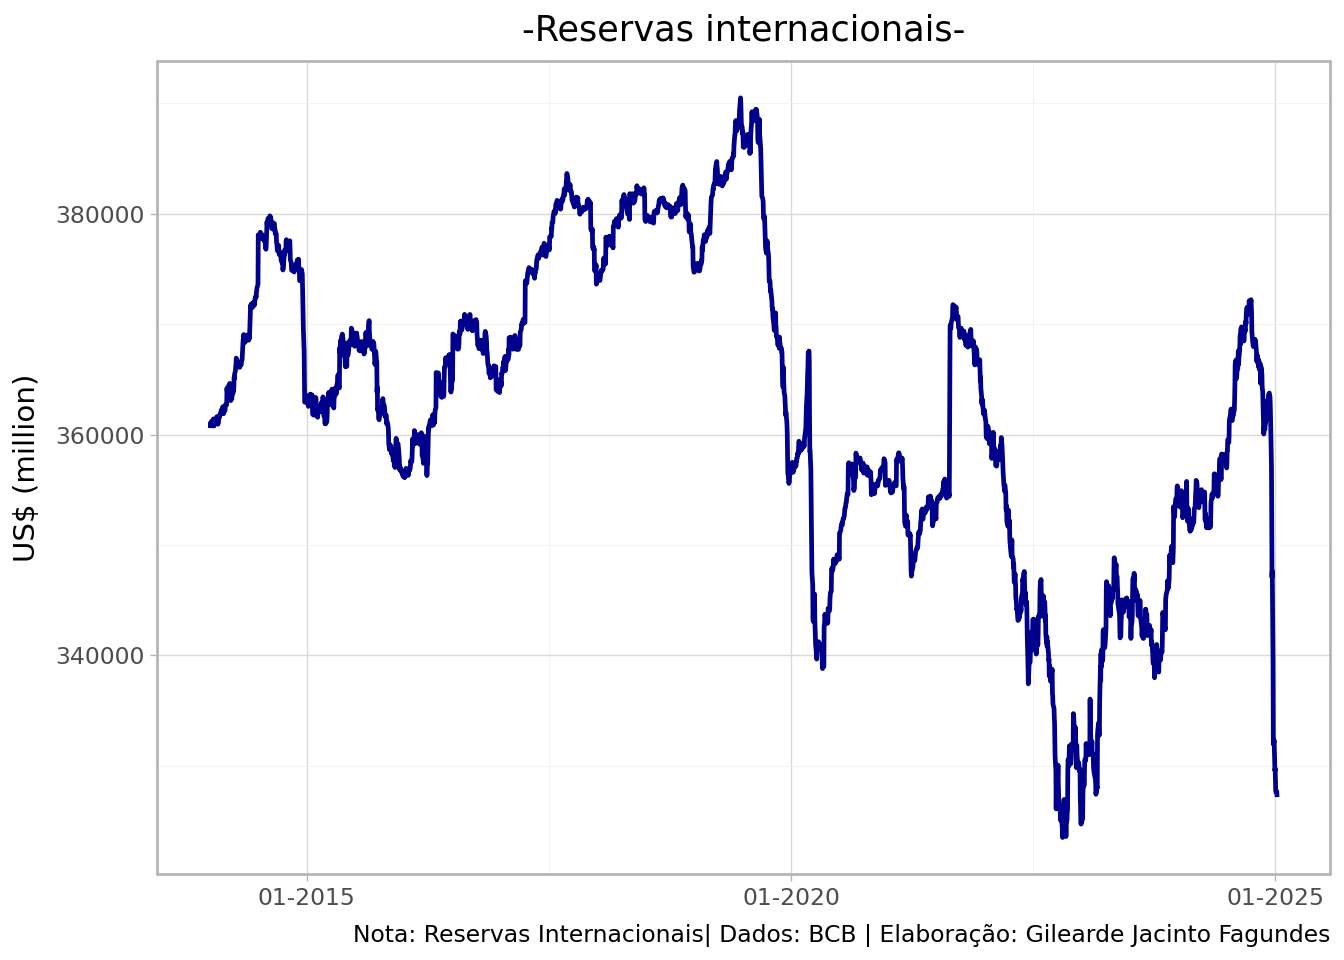
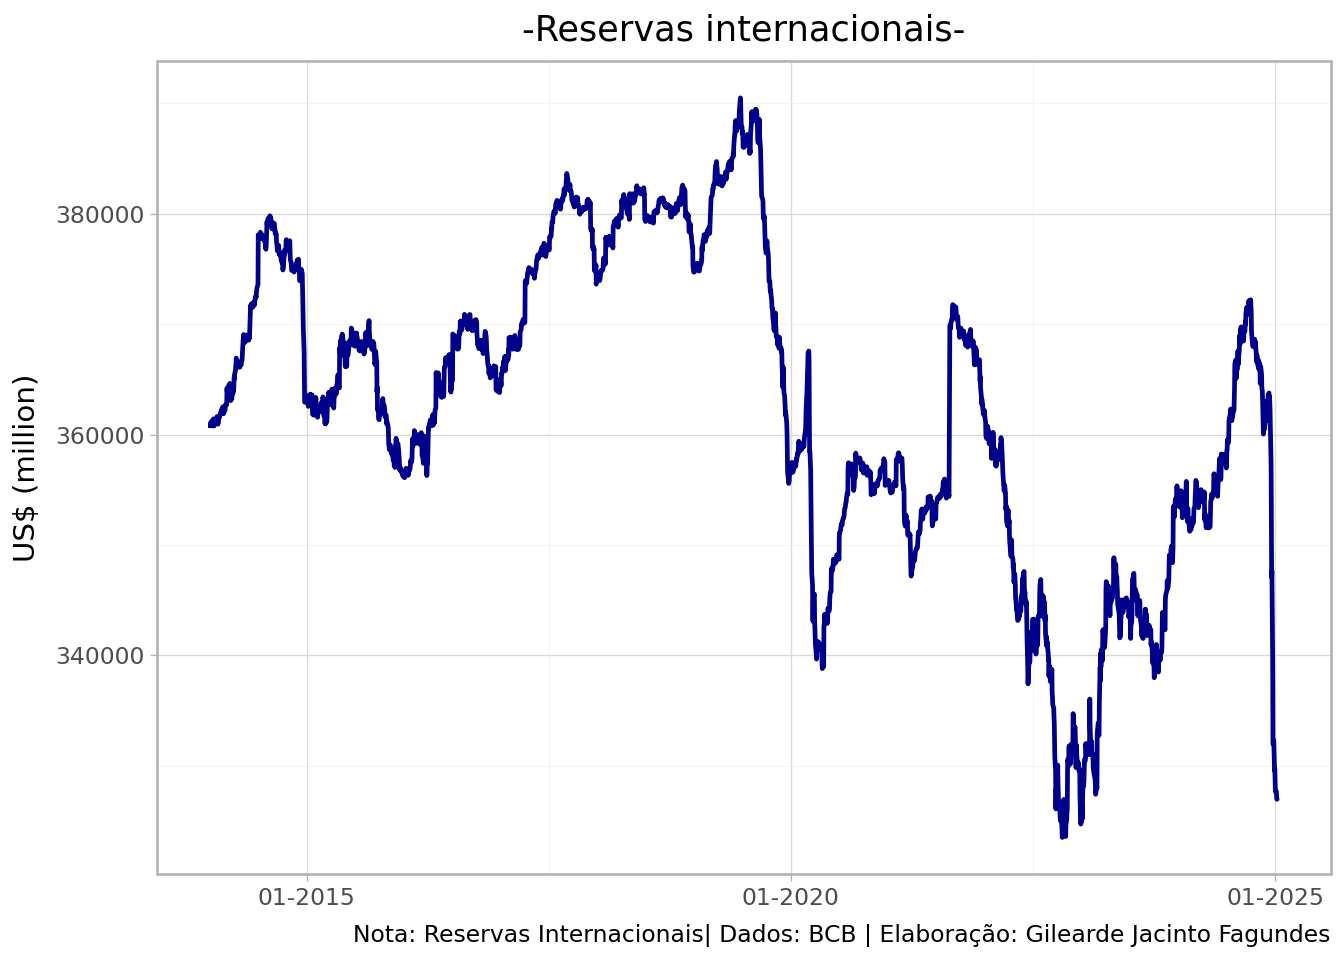
Atualização de relatorio e dashboard

diff --git a/relatorio/relatorio.html b/relatorio/relatorio.html
@@ -107,14 +107,14 @@ pre > code.sourceCode > span > a:first-child::before { text-decoration: underlin
 
 
 <p>Dados coletados da API do Banco Central do Brasil.</p>
-<div id="5d437f7d" class="cell" data-execution_count="1">
+<div id="ef709169" class="cell" data-execution_count="1">
 <div class="sourceCode cell-code" id="cb1"><pre class="sourceCode python code-with-copy"><code class="sourceCode python"><span id="cb1-1"><a href="#cb1-1" aria-hidden="true" tabindex="-1"></a><span class="co"># Import Librarys</span></span>
 <span id="cb1-2"><a href="#cb1-2" aria-hidden="true" tabindex="-1"></a><span class="im">from</span> bcb <span class="im">import</span> sgs</span>
 <span id="cb1-3"><a href="#cb1-3" aria-hidden="true" tabindex="-1"></a><span class="im">import</span> pandas <span class="im">as</span> pd</span>
 <span id="cb1-4"><a href="#cb1-4" aria-hidden="true" tabindex="-1"></a><span class="im">import</span> plotnine <span class="im">as</span> p9</span></code><button title="Copy to Clipboard" class="code-copy-button"><i class="bi"></i></button></pre></div>
 </div>
 <p>Utilização da library SGS/BCB:</p>
-<div id="bbd69101" class="cell" data-execution_count="2">
+<div id="82efd257" class="cell" data-execution_count="2">
 <div class="sourceCode cell-code" id="cb2"><pre class="sourceCode python code-with-copy"><code class="sourceCode python"><span id="cb2-1"><a href="#cb2-1" aria-hidden="true" tabindex="-1"></a><span class="co"># Collect data</span></span>
 <span id="cb2-2"><a href="#cb2-2" aria-hidden="true" tabindex="-1"></a>dados <span class="op">=</span> sgs.get(</span>
 <span id="cb2-3"><a href="#cb2-3" aria-hidden="true" tabindex="-1"></a>    codes<span class="op">=</span>{<span class="st">"reserva"</span>: <span class="dv">13621</span>},</span>
@@ -123,7 +123,7 @@ pre > code.sourceCode > span > a:first-child::before { text-decoration: underlin
 <span id="cb2-6"><a href="#cb2-6" aria-hidden="true" tabindex="-1"></a>)</span></code><button title="Copy to Clipboard" class="code-copy-button"><i class="bi"></i></button></pre></div>
 </div>
 <p>Os dados brutos obtidos no SGS/BCB são exibidos abaixo:</p>
-<div id="446f0c8e" class="cell" data-execution_count="3">
+<div id="87009765" class="cell" data-execution_count="3">
 <div class="sourceCode cell-code" id="cb3"><pre class="sourceCode python code-with-copy"><code class="sourceCode python"><span id="cb3-1"><a href="#cb3-1" aria-hidden="true" tabindex="-1"></a>dados</span></code><button title="Copy to Clipboard" class="code-copy-button"><i class="bi"></i></button></pre></div>
 <div class="cell-output cell-output-display" data-execution_count="3">
 <div>
@@ -166,14 +166,6 @@ pre > code.sourceCode > span > a:first-child::before { text-decoration: underlin
 <td>...</td>
 </tr>
 <tr class="odd">
-<td data-quarto-table-cell-role="th">2024-12-31</td>
-<td>329730</td>
-</tr>
-<tr class="even">
-<td data-quarto-table-cell-role="th">2025-01-02</td>
-<td>327676</td>
-</tr>
-<tr class="odd">
 <td data-quarto-table-cell-role="th">2025-01-03</td>
 <td>327596</td>
 </tr>
@@ -185,18 +177,26 @@ pre > code.sourceCode > span > a:first-child::before { text-decoration: underlin
 <td data-quarto-table-cell-role="th">2025-01-07</td>
 <td>327152</td>
 </tr>
+<tr class="even">
+<td data-quarto-table-cell-role="th">2025-01-08</td>
+<td>326948</td>
+</tr>
+<tr class="odd">
+<td data-quarto-table-cell-role="th">2025-01-09</td>
+<td>327048</td>
+</tr>
 </tbody>
 </table>
 
-<p>2765 rows × 1 columns</p>
+<p>2767 rows × 1 columns</p>
 </div>
 </div>
 </div>
 <p>Valores e datas da maxima e minima das Reservas Internacionais Totais:</p>
-<div id="118bad1c" class="cell" data-execution_count="4">
+<div id="f57859cb" class="cell" data-execution_count="4">
 <div class="sourceCode cell-code" id="cb4"><pre class="sourceCode python code-with-copy"><code class="sourceCode python"><span id="cb4-1"><a href="#cb4-1" aria-hidden="true" tabindex="-1"></a>dados <span class="op">=</span> dados.assign(data <span class="op">=</span> dados.index)</span></code><button title="Copy to Clipboard" class="code-copy-button"><i class="bi"></i></button></pre></div>
 </div>
-<div id="e292606d" class="cell" data-execution_count="5">
+<div id="6b0ca3f6" class="cell" data-execution_count="5">
 <div class="sourceCode cell-code" id="cb5"><pre class="sourceCode python code-with-copy"><code class="sourceCode python"><span id="cb5-1"><a href="#cb5-1" aria-hidden="true" tabindex="-1"></a>menor_valor <span class="op">=</span> dados.reserva.<span class="bu">min</span>() </span>
 <span id="cb5-2"><a href="#cb5-2" aria-hidden="true" tabindex="-1"></a>data_menor_valor <span class="op">=</span> dados.reserva.idxmin().date()</span>
 <span id="cb5-3"><a href="#cb5-3" aria-hidden="true" tabindex="-1"></a>maior_valor<span class="op">=</span>dados.reserva.<span class="bu">max</span>()</span>
@@ -208,7 +208,7 @@ pre > code.sourceCode > span > a:first-child::before { text-decoration: underlin
 </div>
 </div>
 <p>Gráfico de linha com a série das Reservas Internacionais Totais:</p>
-<div id="21d85347" class="cell" data-execution_count="6">
+<div id="17cf981d" class="cell" data-execution_count="6">
 <div class="sourceCode cell-code" id="cb7"><pre class="sourceCode python code-with-copy"><code class="sourceCode python"><span id="cb7-1"><a href="#cb7-1" aria-hidden="true" tabindex="-1"></a><span class="co"># Line Graph</span></span>
 <span id="cb7-2"><a href="#cb7-2" aria-hidden="true" tabindex="-1"></a>chart<span class="op">=</span>p9.ggplot(data <span class="op">=</span> dados) <span class="op">+\</span></span>
 <span id="cb7-3"><a href="#cb7-3" aria-hidden="true" tabindex="-1"></a>  p9.aes(x <span class="op">=</span> <span class="st">"data"</span>, y <span class="op">=</span> <span class="st">"reserva"</span>) <span class="op">+\</span></span>
@@ -222,7 +222,7 @@ pre > code.sourceCode > span > a:first-child::before { text-decoration: underlin
 <span id="cb7-11"><a href="#cb7-11" aria-hidden="true" tabindex="-1"></a>    ) <span class="op">+\</span></span>
 <span id="cb7-12"><a href="#cb7-12" aria-hidden="true" tabindex="-1"></a>  p9.theme_light()</span></code><button title="Copy to Clipboard" class="code-copy-button"><i class="bi"></i></button></pre></div>
 </div>
-<div id="f0b26c2a" class="cell" data-execution_count="7">
+<div id="7f0a0a4c" class="cell" data-execution_count="7">
 <div class="sourceCode cell-code" id="cb8"><pre class="sourceCode python code-with-copy"><code class="sourceCode python"><span id="cb8-1"><a href="#cb8-1" aria-hidden="true" tabindex="-1"></a>chart</span></code><button title="Copy to Clipboard" class="code-copy-button"><i class="bi"></i></button></pre></div>
 <div class="cell-output cell-output-display">
 <div>
